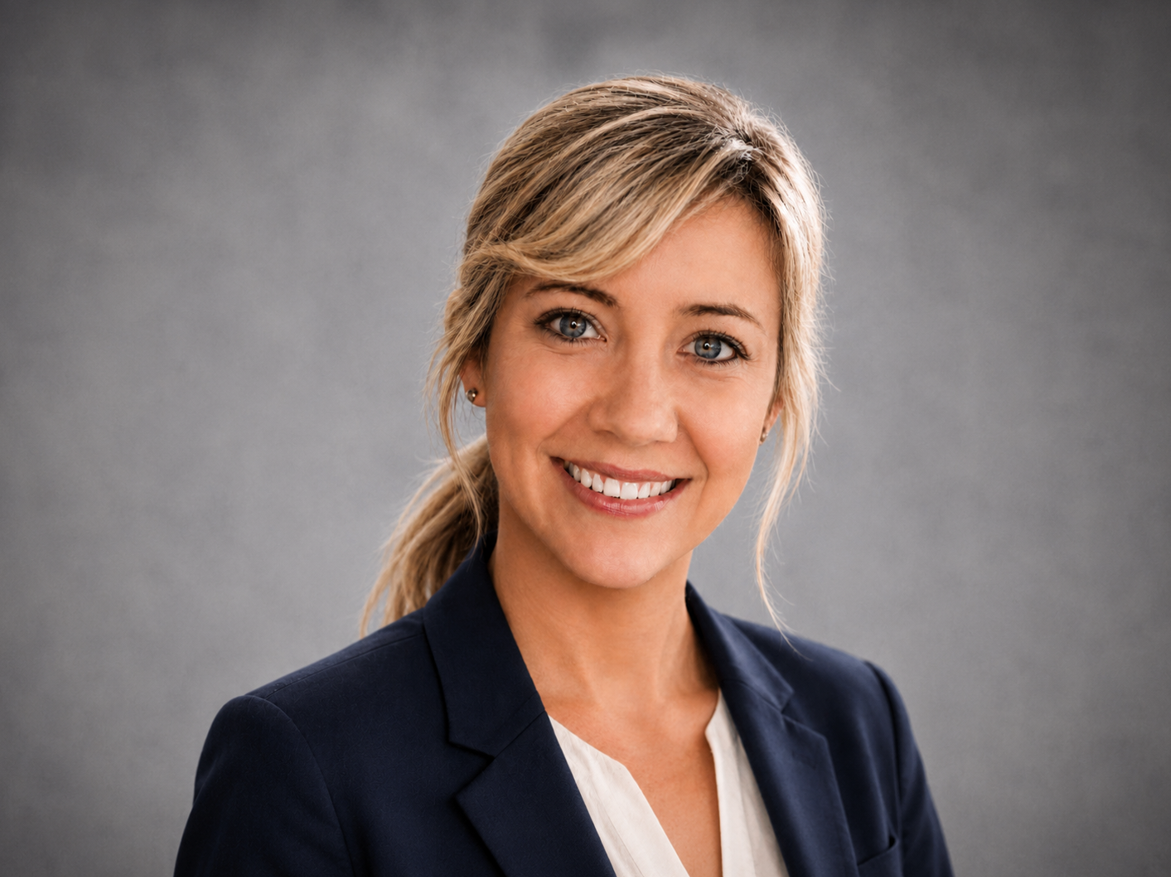
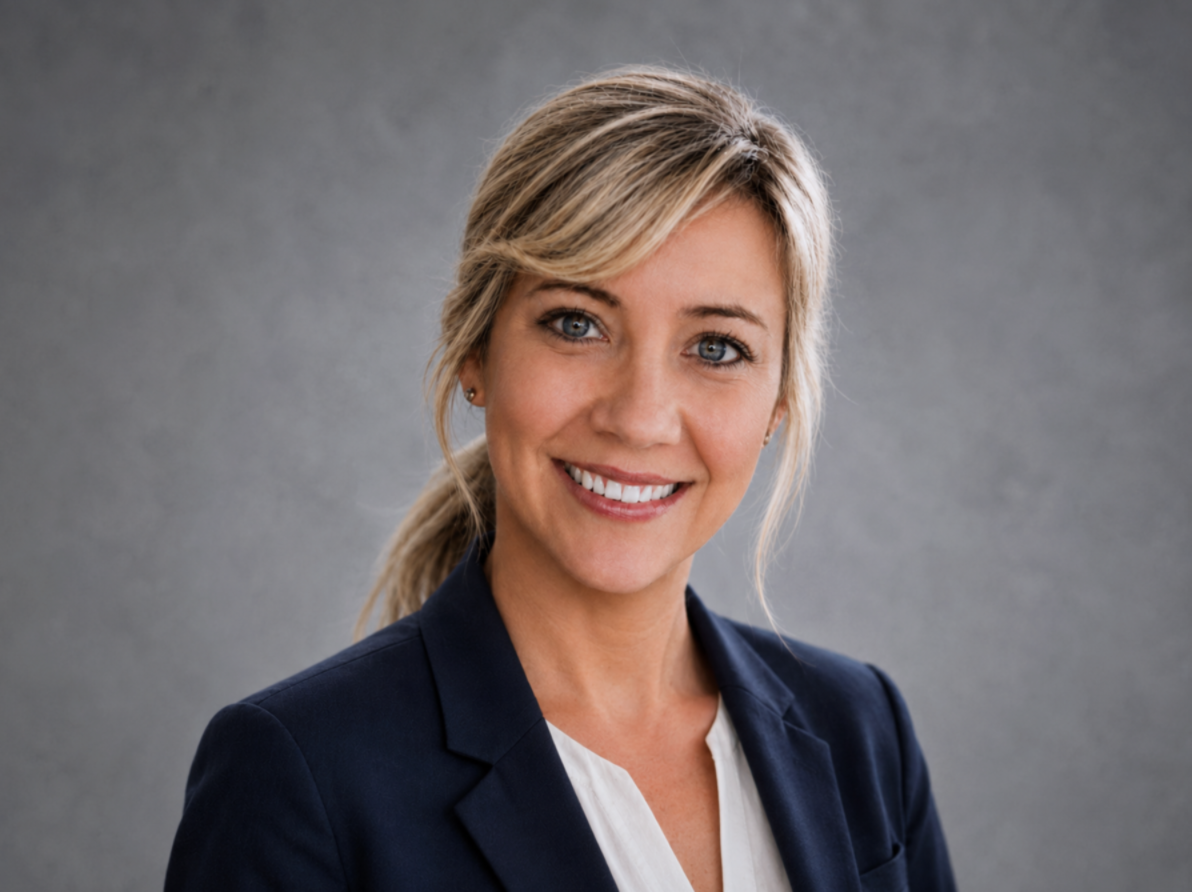
Add files via upload

diff --git a/content/site-content.js b/content/site-content.js
@@ -39,30 +39,22 @@ window.SITE_CONTENT = {
     ]
   },
   fit: {
-    eyebrow: "Who we work with",
-    title: "Built for B2B product companies, not generic service businesses.",
-    goodTitle: "Good fits",
-    lessTitle: "Less good fits",
-    goodFits: [
-      "manufacturers",
-      "specialist B2B product companies",
-      "professional-use product companies",
-      "technical/specialist suppliers",
-      "cleanroom/facility/lab/safety product companies",
-      "automotive aftermarket suppliers",
-      "industrial consumables",
-      "specialty products",
-      "US companies entering Europe",
-      "European companies expanding beyond their home market"
+    eyebrow: "Who we help",
+    title: "We help manufacturers and specialist B2B product companies open qualified sales conversations in new European markets.",
+    paragraphs: [
+      "Our work is relevant for companies that sell physical, technical, professional-use or specialist products or services to other businesses, whether through direct sales, distributors, dealers, agents or channel partners.",
+      "We are not limited to one industry. The common factor is not the sector, but the commercial challenge: you have a product with a clear business buyer, and you want to reach more of the right companies in Europe."
     ],
-    lessGoodFits: [
-      "pure SaaS",
-      "generic service companies",
-      "consumer brands",
-      "companies without capacity to follow up",
-      "products needing heavy local service where no channel plan exists",
-      "companies expecting guaranteed revenue within weeks"
-    ]
+    includesTitle: "This can include:",
+    includes: [
+      "manufacturers looking for new buyers, distributors or partners",
+      "specialist product companies entering new European markets",
+      "US companies exploring Europe without building a full local sales team first",
+      "European companies expanding beyond their home market",
+      "B2B suppliers with a niche product that needs a focused, targeted outreach approach",
+      "companies that know there is a market, but need help finding and opening the right conversations"
+    ],
+    closing: "Every project starts with a practical assessment of the product, target market, buyer profile and route to market. If there is a realistic path to qualified conversations, we build from there."
   },
   process: {
     eyebrow: "How it works",

diff --git a/styles.css b/styles.css
@@ -156,6 +156,9 @@ a {
 
 .hero h1 {
   color: var(--paper);
+  max-width: 900px;
+  font-size: clamp(34px, 4.5vw, 60px);
+  line-height: 1.04;
 }
 
 .section h2 {
@@ -376,6 +379,7 @@ a {
 }
 
 .fit-column,
+.fit-narrative,
 .offer,
 .blog-post,
 .step,
@@ -388,6 +392,70 @@ a {
 .fit-column {
   padding: 34px;
   box-shadow: var(--shadow-soft);
+}
+
+.fit-narrative {
+  display: grid;
+  grid-template-columns: minmax(0, 0.95fr) minmax(320px, 1fr);
+  gap: clamp(28px, 5vw, 58px);
+  padding: clamp(28px, 4vw, 42px);
+  box-shadow: var(--shadow-soft);
+}
+
+.fit-narrative > div {
+  display: grid;
+  gap: 18px;
+}
+
+.fit-narrative p {
+  margin: 0;
+  color: var(--steel);
+  font-size: 18px;
+}
+
+.fit-narrative h3 {
+  margin: 0;
+  color: var(--ink);
+  font-family: Georgia, "Times New Roman", serif;
+  font-size: 25px;
+}
+
+.fit-narrative ul {
+  display: grid;
+  gap: 13px;
+  margin: 0;
+  padding: 0;
+  list-style: none;
+}
+
+.fit-narrative li {
+  position: relative;
+  padding-left: 32px;
+  color: var(--ink);
+}
+
+.fit-narrative li::before {
+  position: absolute;
+  left: 0;
+  top: 1px;
+  display: grid;
+  width: 20px;
+  height: 20px;
+  place-items: center;
+  border-radius: 999px;
+  color: var(--paper);
+  background: var(--accent);
+  content: "+";
+  font-size: 14px;
+  font-weight: 900;
+}
+
+.fit-narrative > p {
+  grid-column: 1 / -1;
+  padding-top: 24px;
+  border-top: 1px solid var(--line);
+  color: var(--ink);
+  font-weight: 800;
 }
 
 .fit-column h3,
@@ -680,7 +748,7 @@ a {
   }
 
   .hero h1 {
-    font-size: 40px;
+    font-size: 36px;
   }
 
   .hero-panel {
@@ -690,6 +758,7 @@ a {
   .market-card,
   .hero-metrics,
   .fit-grid,
+  .fit-narrative,
   .steps,
   .offer-grid,
   .blog-grid,
@@ -699,6 +768,7 @@ a {
 
   .check-list,
   .fit-column,
+  .fit-narrative,
   .offer,
   .step {
     padding: 24px;

diff --git a/index.html b/index.html
@@ -76,15 +76,11 @@
           <p class="eyebrow" data-content="fit.eyebrow"></p>
           <h2 data-content="fit.title"></h2>
         </div>
-        <div class="fit-grid">
-          <div class="fit-column good">
-            <h3 data-content="fit.goodTitle"></h3>
-            <ul data-list="fit.goodFits"></ul>
-          </div>
-          <div class="fit-column less">
-            <h3 data-content="fit.lessTitle"></h3>
-            <ul data-list="fit.lessGoodFits"></ul>
-          </div>
+        <div class="fit-narrative">
+          <div data-paragraphs="fit.paragraphs"></div>
+          <h3 data-content="fit.includesTitle"></h3>
+          <ul data-list="fit.includes"></ul>
+          <p data-content="fit.closing"></p>
         </div>
       </section>
 
